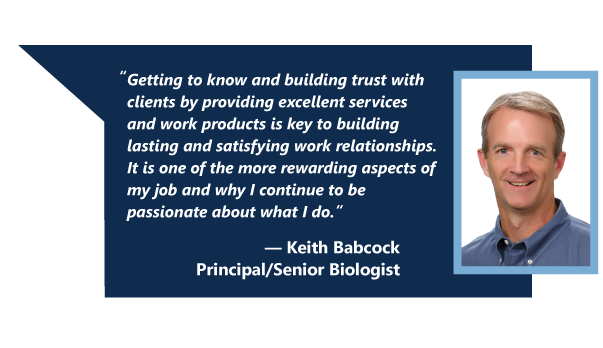
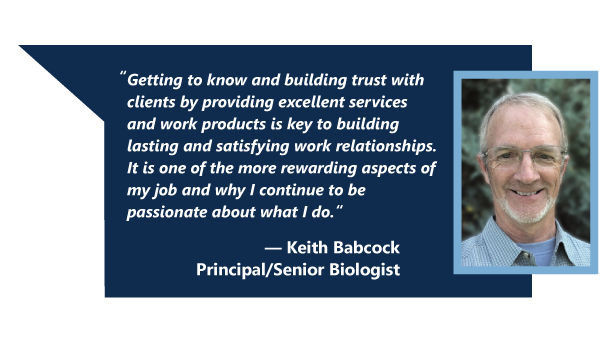
update keith headshot

Changed region(s): [[0.7463, 0.2011, 0.9851, 0.7759]]

diff --git a/index.hyperesources/index_hype_generated_script.js b/index.hyperesources/index_hype_generated_script.js
@@ -4,4 +4,4 @@
 !1)try{for(var c=document.getElementsByTagName("script"),a=0;a<c.length;a++){var d=c[a].src,b=null!=d?d.indexOf("/index_hype_generated_script.js"):-1;if(-1!=b){l=d.substr(0,b);break}}}catch(p){}c=navigator.userAgent.match(/MSIE (\d+\.\d+)/);c=parseFloat(c&&c[1])||null;d=!0==(null!=window.HYPE_734F||null!=window.HYPE_dtl_734F)||false==!0||null!=c&&10>c;a=!0==d?"HYPE-734.full.min.js":"HYPE-734.thin.min.js";c=!0==d?"F":"T";d=d?"":
 "";if(false==!1&&(a=k("HYPE_734"+c,"HYPE_dtl_734"+c,a,d),false==!0&&(a=a||k("HYPE_w_734","HYPE_wdtl_734","HYPE-734.waypoints.min.js","")),false==!0&&(a=a||k("Matter","HYPE_pdtl_734","HYPE-734.physics.min.js","")),a))return;d=window.HYPE.documents;if(null!=d[f]){b=1;a=f;do f=""+a+"-"+b++;while(null!=d[f]);for(var e=document.getElementsByTagName("div"),
 b=!1,a=0;a<e.length;a++)if(e[a].id==g&&null==e[a].getAttribute("HYP_dn")){var b=1,h=g;do g=""+h+"-"+b++;while(null!=document.getElementById(g));e[a].id=g;b=!0;break}if(!1==b)return}b=[];b=[];e={};h={};for(a=0;a<b.length;a++)try{h[b[a].identifier]=b[a].name,e[b[a].name]=eval("(function(){return "+b[a].source+"})();")}catch(n){window.console&&window.console.log(n),e[b[a].name]=function(){}}c=new window["HYPE_734"+c](f,g,{"9":{p:1,n:"map.png",g:"19",t:"@1x"},"10":{p:1,n:"blue_dot.png",g:"59",o:true,t:"@1x"},"11":{p:1,n:"blue_dot_2x.png",g:"59",o:true,t:"@2x"},"0":{p:1,n:"state_lines.png",g:"37",t:"@1x"},"12":{p:1,n:"Rose_quote.png",g:"86",t:"@1x"},"1":{p:1,n:"lines.png",g:"23",t:"@1x"},"2":{p:1,n:"peeps.png",g:"25",t:"@1x"},"13":{p:1,n:"legend.png",g:"281",o:true,t:"@1x"},"3":{p:1,n:"laurie_M_quote.png",g:"126",t:"@1x"},"14":{p:1,n:"legend_2x.png",g:"281",o:true,t:"@2x"},"4":{p:1,n:"lisa_quote.png",g:"196",t:"@1x"},"5":{p:1,n:"erlin_quote.png",g:"234",t:"@1x"},"15":{p:1,n:"adrienne_quote.png",g:"252",t:"@1x"},"6":{p:1,n:"allison_quote.png",g:"254",o:true,t:"@1x"},"16":{p:1,n:"Vipul_quote.png",g:"283",t:"@1x"},"7":{p:1,n:"allison_quote_2x.png",g:"254",o:true,t:"@2x"},"-1":{n:"PIE.htc"},"8":{p:1,n:"Dustin_quote.png",g:"214",t:"@1x"},"17":{p:1,n:"Keith_quote.png",g:"285",t:"@1x"},"-2":{n:"blank.gif"}},l,[],e,[{n:"opening",o:"1",X:[0]},{n:"adrienne",o:"236",X:[1]},{n:"Erlin",o:"218",X:[2]},{n:"Rose",o:"258",X:[3]},{n:"Allison",o:"88",X:[4]},{n:"Laurie",o:"110",X:[5]},{n:"vipul",o:"144",X:[6]},{n:"Keith",o:"162",X:[7]},{n:"Lisa",o:"180",X:[8]},{n:"dustin",o:"198",X:[9]}],
-[{o:"3",p:"600px",cA:false,Y:1240,Z:800,L:[],c:"#FFF",bY:1,d:1240,U:{},T:{kTimelineDefaultIdentifier:{q:false,z:2,i:"kTimelineDefaultIdentifier",n:"Main Timeline",a:[{f:"c",y:0,z:1,i:"e",e:0,s:1,o:"292"},{f:"c",y:0,z:1,i:"e",e:0,s:1,o:"298"},{f:"c",y:0,z:1,i:"e",e:0,s:1,o:"287"},{f:"c",y:0,z:1,i:"e",e:0,s:1,o:"290"},{f:"c",y:0,z:1,i:"e",e:0,s:1,o:"294"},{f:"c",y:0,z:1,i:"e",e:0,s:1,o:"296"},{f:"c",y:0,z:1,i:"e",e:0,s:1,o:"300"},{f:"c",y:0,z:1,i:"e",e:0,s:1,o:"288"},{f:"c",y:0,z:1,i:"e",e:0,s:1,o:"291"},{f:"c",y:1,z:1,i:"e",e:1,s:0,o:"292"},{f:"c",y:1,z:1,i:"e",e:1,s:0,o:"298"},{f:"c",y:1,z:1,i:"e",e:1,s:0,o:"287"},{f:"c",y:1,z:1,i:"e",e:1,s:0,o:"290"},{f:"c",y:1,z:1,i:"e",e:1,s:0,o:"294"},{f:"c",y:1,z:1,i:"e",e:1,s:0,o:"296"},{f:"c",y:1,z:1,i:"e",e:1,s:0,o:"300"},{f:"c",y:1,z:1,i:"e",e:1,s:0,o:"288"},{f:"c",y:1,z:1,i:"e",e:1,s:0,o:"291"},{f:"c",p:2,y:2,z:0,i:"ActionHandler",s:{a:[{b:"kTimelineDefaultIdentifier",p:3,z:false,symbolOid:"2"}]},o:"kTimelineDefaultIdentifier"},{y:2,i:"e",s:1,z:0,o:"292",f:"c"},{y:2,i:"e",s:1,z:0,o:"298",f:"c"},{y:2,i:"e",s:1,z:0,o:"287",f:"c"},{y:2,i:"e",s:1,z:0,o:"290",f:"c"},{y:2,i:"e",s:1,z:0,o:"294",f:"c"},{y:2,i:"e",s:1,z:0,o:"296",f:"c"},{y:2,i:"e",s:1,z:0,o:"300",f:"c"},{y:2,i:"e",s:1,z:0,o:"288",f:"c"},{y:2,i:"e",s:1,z:0,o:"291",f:"c"}],f:30,b:[]}},bZ:180,O:["289","295","299","297","288","300","292","290","294","291","298","287","293","296"],n:"Untitled Layout","_":0,v:{"289":{h:"25",p:"no-repeat",x:"visible",a:4,dB:"img",q:"100% 100%",j:"absolute",r:"inline",z:5,k:"div",b:0,d:800,c:1240},"290":{aD:{a:[{d:0.25,p:1,g:2,e:"88"}]},p:"no-repeat",x:"visible",h:"59",q:"100% 100%",a:228,j:"absolute",r:"inline",z:11,b:305,dB:"img",d:39,k:"div",c:39,e:1,aP:"pointer"},"295":{h:"37",p:"no-repeat",x:"visible",a:0,dB:"img",q:"100% 100%",j:"absolute",r:"inline",z:2,k:"div",b:0,d:800,c:1240},"298":{aD:{a:[{d:0.25,p:1,g:2,e:"110"}]},p:"no-repeat",x:"visible",h:"59",q:"100% 100%",a:85,j:"absolute",r:"inline",z:9,b:472,dB:"img",d:39,k:"div",c:39,e:1,aP:"pointer"},"287":{aD:{a:[{d:0.25,p:1,g:2,e:"144"}]},p:"no-repeat",x:"visible",h:"59",q:"100% 100%",a:149,j:"absolute",r:"inline",z:10,b:541,dB:"img",d:39,k:"div",c:39,e:1,aP:"pointer"},"293":{h:"281",p:"no-repeat",x:"visible",a:832,dB:"img",q:"100% 100%",j:"absolute",r:"inline",z:17,k:"div",b:539,d:22.32,c:201.6},"300":{aD:{a:[{d:0.5,p:1,g:2,e:"180"}]},p:"no-repeat",x:"visible",h:"59",q:"100% 100%",a:793,j:"absolute",r:"inline",z:14,b:279,dB:"img",d:39,k:"div",c:39,e:1,aP:"pointer"},"296":{aD:{a:[{d:0.5,p:1,g:2,e:"198"}]},p:"no-repeat",x:"visible",h:"59",q:"100% 100%",a:387,j:"absolute",r:"inline",z:13,b:606,dB:"img",d:39,k:"div",c:39,e:1,aP:"pointer"},"291":{aD:{a:[{d:0.5,p:1,g:2,e:"236"}]},p:"no-repeat",x:"visible",h:"59",q:"100% 100%",a:1135,j:"absolute",r:"inline",z:16,b:464,dB:"img",d:39,k:"div",c:39,e:1,aP:"pointer"},"299":{h:"19",p:"no-repeat",x:"visible",a:0,dB:"img",q:"100% 100%",j:"absolute",r:"inline",z:1,k:"div",b:0,d:800,c:1240},"294":{aD:{a:[{d:0.25,p:1,g:2,e:"162"}]},p:"no-repeat",x:"visible",h:"59",q:"100% 100%",a:487,j:"absolute",r:"inline",z:12,b:318,dB:"img",d:39,k:"div",c:39,e:1,aP:"pointer"},"288":{aD:{a:[{d:0.25,p:1,g:2,e:"218"}]},p:"no-repeat",x:"visible",h:"59",q:"100% 100%",a:1019,j:"absolute",r:"inline",z:15,b:230,dB:"img",d:39,k:"div",c:39,e:1,aP:"pointer"},"297":{h:"23",p:"no-repeat",x:"visible",a:20,dB:"img",q:"100% 100%",j:"absolute",r:"inline",z:6,b:20,k:"div",d:800,c:1240,e:1},"292":{aD:{a:[{d:0.25,p:1,g:2,e:"258"}]},p:"no-repeat",x:"visible",h:"59",q:"100% 100%",a:124,j:"absolute",r:"inline",b:310,z:7,dB:"img",d:39,k:"div",c:39,e:1,aP:"pointer",bD:"none"}}},{o:"251",p:"600px",cA:false,Y:1240,Z:800,L:[],c:"#FFF",bY:1,d:1240,U:{},T:{kTimelineDefaultIdentifier:{q:false,z:0,i:"kTimelineDefaultIdentifier",n:"Main Timeline",a:[],f:30,b:[]}},bZ:180,O:["303","305","301","302","304","306"],n:"Untitled Layout","_":1,v:{"301":{h:"19",p:"no-repeat",x:"visible",a:0,dB:"img",q:"100% 100%",j:"absolute",r:"inline",z:1,k:"div",b:0,d:800,c:1240},"305":{h:"37",p:"no-repeat",x:"visible",a:0,dB:"img",q:"100% 100%",j:"absolute",r:"inline",z:2,k:"div",b:0,d:800,c:1240},"302":{h:"23",p:"no-repeat",x:"visible",a:20,dB:"img",q:"100% 100%",j:"absolute",r:"inline",z:5,b:20,k:"div",d:800,c:1240,e:1},"306":{h:"59",p:"no-repeat",x:"visible",a:1135,q:"100% 100%",b:464,j:"absolute",r:"inline",z:15,dB:"img",k:"div",d:39,c:39,e:1,aP:"pointer",aC:{a:[{d:0.25,p:1,g:2,e:"1"}]}},"303":{h:"25",p:"no-repeat",x:"visible",a:4,dB:"img",q:"100% 100%",j:"absolute",r:"inline",z:4,k:"div",b:0,d:800,c:1240},"304":{h:"252",p:"no-repeat",x:"visible",a:581,dB:"img",q:"100% 100%",j:"absolute",r:"inline",z:6,k:"div",b:442,d:348,c:603}}},{o:"233",p:"600px",cA:false,Y:1240,Z:800,L:[],c:"#FFF",bY:1,d:1240,U:{},T:{kTimelineDefaultIdentifier:{q:false,z:0,i:"kTimelineDefaultIdentifier",n:"Main Timeline",a:[],f:30,b:[]}},bZ:180,O:["308","311","310","307","309","312"],n:"Untitled Layout","_":2,v:{"308":{h:"25",p:"no-repeat",x:"visible",a:4,dB:"img",q:"100% 100%",j:"absolute",r:"inline",z:4,k:"div",b:0,d:800,c:1240},"310":{h:"19",p:"no-repeat",x:"visible",a:0,dB:"img",q:"100% 100%",j:"absolute",r:"inline",z:1,k:"div",b:0,d:800,c:1240},"309":{h:"234",p:"no-repeat",x:"visible",a:471,dB:"img",q:"100% 100%",j:"absolute",r:"inline",z:6,k:"div",b:203,d:348,c:603},"311":{h:"37",p:"no-repeat",x:"visible",a:0,dB:"img",q:"100% 100%",j:"absolute",r:"inline",z:2,k:"div",b:0,d:800,c:1240},"307":{h:"23",p:"no-repeat",x:"visible",a:20,dB:"img",q:"100% 100%",j:"absolute",r:"inline",z:5,b:20,k:"div",d:800,c:1240,e:1},"312":{h:"59",p:"no-repeat",x:"visible",a:1019,q:"100% 100%",b:230,j:"absolute",r:"inline",z:14,dB:"img",k:"div",d:39,c:39,e:1,aP:"pointer",aC:{a:[{d:0.25,p:1,g:2,e:"1"}]}}}},{o:"266",p:"600px",cA:false,Y:1240,Z:800,L:[],c:"#FFF",bY:1,d:1240,U:{},T:{kTimelineDefaultIdentifier:{q:false,z:0,i:"kTimelineDefaultIdentifier",n:"Main Timeline",a:[],f:30,b:[]}},bZ:180,O:["318","317","316","315","314","313"],n:"Untitled Layout","_":3,v:{"313":{h:"59",p:"no-repeat",x:"visible",a:124,q:"100% 100%",b:310,j:"absolute",r:"inline",z:7,dB:"img",k:"div",d:39,c:39,e:1,aP:"pointer",aC:{a:[{d:0.25,p:1,g:2,e:"1"}]}},"317":{h:"37",p:"no-repeat",x:"visible",a:0,dB:"img",q:"100% 100%",j:"absolute",r:"inline",z:2,k:"div",b:0,d:800,c:1240},"314":{h:"86",p:"no-repeat",x:"visible",a:124,dB:"img",q:"100% 100%",j:"absolute",r:"inline",z:6,k:"div",b:285,d:348,c:603},"318":{h:"25",p:"no-repeat",x:"visible",a:4,dB:"img",q:"100% 100%",j:"absolute",r:"inline",z:4,k:"div",b:0,d:800,c:1240},"315":{h:"23",p:"no-repeat",x:"visible",a:20,dB:"img",q:"100% 100%",j:"absolute",r:"inline",z:5,b:20,k:"div",d:800,c:1240,e:1},"316":{h:"19",p:"no-repeat",x:"visible",a:0,dB:"img",q:"100% 100%",j:"absolute",r:"inline",z:1,k:"div",b:0,d:800,c:1240}}},{o:"103",p:"600px",cA:false,Y:1240,Z:800,L:[],c:"#FFF",bY:1,d:1240,U:{},T:{kTimelineDefaultIdentifier:{q:false,z:0,i:"kTimelineDefaultIdentifier",n:"Main Timeline",a:[],f:30,b:[]}},bZ:180,O:["321","322","323","319","324","320"],n:"Untitled Layout","_":4,v:{"324":{h:"59",p:"no-repeat",x:"visible",a:228,q:"100% 100%",b:305,j:"absolute",r:"inline",z:11,dB:"img",k:"div",d:39,c:39,e:1,aP:"pointer",aC:{a:[{d:0.25,p:1,g:2,e:"1"}]}},"322":{h:"37",p:"no-repeat",x:"visible",a:0,dB:"img",q:"100% 100%",j:"absolute",r:"inline",z:2,k:"div",b:0,d:800,c:1240},"323":{h:"19",p:"no-repeat",x:"visible",a:0,dB:"img",q:"100% 100%",j:"absolute",r:"inline",z:1,k:"div",b:0,d:800,c:1240},"320":{h:"254",p:"no-repeat",x:"visible",a:257,dB:"img",q:"100% 100%",j:"absolute",r:"inline",z:10,k:"div",b:325,d:252.48,c:544.56},"319":{h:"23",p:"no-repeat",x:"visible",a:20,dB:"img",q:"100% 100%",j:"absolute",r:"inline",z:5,b:20,k:"div",d:800,c:1240,e:1},"321":{h:"25",p:"no-repeat",x:"visible",a:4,dB:"img",q:"100% 100%",j:"absolute",r:"inline",z:4,k:"div",b:0,d:800,c:1240}}},{o:"125",p:"600px",cA:false,Y:1240,Z:800,L:[],c:"#FFF",bY:1,d:1240,U:{},T:{kTimelineDefaultIdentifier:{q:false,z:0,i:"kTimelineDefaultIdentifier",n:"Main Timeline",a:[],f:30,b:[]}},bZ:180,O:["325","328","326","329","327","330"],n:"Untitled Layout","_":5,v:{"325":{h:"25",p:"no-repeat",x:"visible",a:4,dB:"img",q:"100% 100%",j:"absolute",r:"inline",z:4,k:"div",b:0,d:800,c:1240},"329":{h:"23",p:"no-repeat",x:"visible",a:20,dB:"img",q:"100% 100%",j:"absolute",r:"inline",z:5,b:20,k:"div",d:800,c:1240,e:1},"326":{h:"19",p:"no-repeat",x:"visible",a:0,dB:"img",q:"100% 100%",j:"absolute",r:"inline",z:1,k:"div",b:0,d:800,c:1240},"330":{h:"59",p:"no-repeat",x:"visible",a:85,q:"100% 100%",b:472,j:"absolute",r:"inline",z:8,dB:"img",k:"div",d:39,c:39,e:1,aP:"pointer",aC:{a:[{d:0.25,p:1,g:2,e:"1"}]}},"327":{h:"126",p:"no-repeat",x:"visible",a:76,dB:"img",q:"100% 100%",j:"absolute",r:"inline",z:7,k:"div",b:444,d:348,c:603},"328":{h:"37",p:"no-repeat",x:"visible",a:0,dB:"img",q:"100% 100%",j:"absolute",r:"inline",z:2,k:"div",b:0,d:800,c:1240}}},{o:"159",p:"600px",cA:false,Y:1240,Z:800,L:[],c:"#FFF",bY:1,d:1240,U:{},T:{kTimelineDefaultIdentifier:{q:false,z:0,i:"kTimelineDefaultIdentifier",n:"Main Timeline",a:[],f:30,b:[]}},bZ:180,O:["333","335","334","331","332","336"],n:"Untitled Layout","_":6,v:{"334":{h:"19",p:"no-repeat",x:"visible",a:0,dB:"img",q:"100% 100%",j:"absolute",r:"inline",z:1,k:"div",b:0,d:800,c:1240},"331":{h:"23",p:"no-repeat",x:"visible",a:20,dB:"img",q:"100% 100%",j:"absolute",r:"inline",z:5,b:20,k:"div",d:800,c:1240,e:1},"335":{h:"37",p:"no-repeat",x:"visible",a:0,dB:"img",q:"100% 100%",j:"absolute",r:"inline",z:2,k:"div",b:0,d:800,c:1240},"332":{h:"283",p:"no-repeat",x:"visible",a:143,dB:"img",q:"100% 100%",j:"absolute",r:"inline",z:6,k:"div",b:267,d:348,c:603},"336":{h:"59",p:"no-repeat",x:"visible",a:149,q:"100% 100%",b:541,j:"absolute",r:"inline",z:10,dB:"img",k:"div",d:39,c:39,e:1,aP:"pointer",aC:{a:[{d:0.25,p:1,g:2,e:"1"}]}},"333":{h:"25",p:"no-repeat",x:"visible",a:4,dB:"img",q:"100% 100%",j:"absolute",r:"inline",z:4,k:"div",b:0,d:800,c:1240}}},{o:"177",p:"600px",cA:false,Y:1240,Z:800,L:[],c:"#FFF",bY:1,d:1240,U:{},T:{kTimelineDefaultIdentifier:{q:false,z:0,i:"kTimelineDefaultIdentifier",n:"Main Timeline",a:[],f:30,b:[]}},bZ:180,O:["337","340","341","338","342","339"],n:"Untitled Layout","_":7,v:{"337":{h:"25",p:"no-repeat",x:"visible",a:4,dB:"img",q:"100% 100%",j:"absolute",r:"inline",z:4,k:"div",b:0,d:800,c:1240},"342":{h:"285",p:"no-repeat",x:"visible",a:487,dB:"img",q:"100% 100%",j:"absolute",r:"inline",z:6,k:"div",b:294,d:348,c:603},"338":{h:"23",p:"no-repeat",x:"visible",a:20,dB:"img",q:"100% 100%",j:"absolute",r:"inline",z:5,b:20,k:"div",d:800,c:1240,e:1},"340":{h:"37",p:"no-repeat",x:"visible",a:0,dB:"img",q:"100% 100%",j:"absolute",r:"inline",z:2,k:"div",b:0,d:800,c:1240},"339":{h:"59",p:"no-repeat",x:"visible",a:487,q:"100% 100%",b:318,j:"absolute",r:"inline",z:13,dB:"img",k:"div",d:39,c:39,e:1,aP:"pointer",aC:{a:[{d:0.25,p:1,g:2,e:"1"}]}},"341":{h:"19",p:"no-repeat",x:"visible",a:0,dB:"img",q:"100% 100%",j:"absolute",r:"inline",z:1,k:"div",b:0,d:800,c:1240}}},{o:"195",p:"600px",cA:false,Y:1240,Z:800,L:[],c:"#FFF",bY:1,d:1240,U:{},T:{kTimelineDefaultIdentifier:{q:false,z:2,i:"kTimelineDefaultIdentifier",n:"Main Timeline",a:[{f:"c",y:0,z:1,i:"e",e:0,s:1,o:"346"},{f:"c",y:1,z:1,i:"e",e:1,s:0,o:"346"},{f:"c",p:2,y:2,z:0,i:"ActionHandler",s:{a:[{b:"kTimelineDefaultIdentifier",p:3,z:false,symbolOid:"2"}]},o:"kTimelineDefaultIdentifier"},{y:2,i:"e",s:1,z:0,o:"346",f:"c"}],f:30,b:[]}},bZ:180,O:["343","348","344","347","345","346"],n:"Untitled Layout","_":8,v:{"346":{h:"59",p:"no-repeat",x:"visible",a:793,q:"100% 100%",b:279,j:"absolute",r:"inline",z:13,dB:"img",k:"div",d:39,c:39,e:1,aP:"pointer",aC:{a:[{d:0.5,p:1,g:2,e:"1"}]}},"343":{h:"25",p:"no-repeat",x:"visible",a:4,dB:"img",q:"100% 100%",j:"absolute",r:"inline",z:4,k:"div",b:0,d:800,c:1240},"347":{h:"23",p:"no-repeat",x:"visible",a:20,dB:"img",q:"100% 100%",j:"absolute",r:"inline",z:5,b:20,k:"div",d:800,c:1240,e:1},"344":{h:"19",p:"no-repeat",x:"visible",a:0,dB:"img",q:"100% 100%",j:"absolute",r:"inline",z:1,k:"div",b:0,d:800,c:1240},"348":{h:"37",p:"no-repeat",x:"visible",a:0,dB:"img",q:"100% 100%",j:"absolute",r:"inline",z:2,k:"div",b:0,d:800,c:1240},"345":{h:"196",p:"no-repeat",x:"visible",a:245,dB:"img",q:"100% 100%",j:"absolute",r:"inline",z:6,k:"div",b:255,d:348,c:603}}},{o:"213",p:"600px",cA:false,Y:1240,Z:800,L:[],c:"#FFF",bY:1,d:1240,U:{},T:{kTimelineDefaultIdentifier:{q:false,z:0,i:"kTimelineDefaultIdentifier",n:"Main Timeline",a:[],f:30,b:[]}},bZ:180,O:["353","352","350","349","351","354"],n:"Untitled Layout","_":9,v:{"349":{h:"23",p:"no-repeat",x:"visible",a:20,dB:"img",q:"100% 100%",j:"absolute",r:"inline",z:5,b:20,k:"div",d:800,c:1240,e:1},"351":{h:"214",p:"no-repeat",x:"visible",a:394,dB:"img",q:"100% 100%",j:"absolute",r:"inline",z:6,k:"div",b:322,d:348,c:603},"354":{h:"59",p:"no-repeat",x:"visible",a:387,q:"100% 100%",b:606,j:"absolute",r:"inline",z:12,dB:"img",k:"div",d:39,c:39,e:1,aP:"pointer",aC:{a:[{d:0.25,p:1,g:2,e:"1"}]}},"352":{h:"37",p:"no-repeat",x:"visible",a:0,dB:"img",q:"100% 100%",j:"absolute",r:"inline",z:2,k:"div",b:0,d:800,c:1240},"353":{h:"25",p:"no-repeat",x:"visible",a:4,dB:"img",q:"100% 100%",j:"absolute",r:"inline",z:4,k:"div",b:0,d:800,c:1240},"350":{h:"19",p:"no-repeat",x:"visible",a:0,dB:"img",q:"100% 100%",j:"absolute",r:"inline",z:1,k:"div",b:0,d:800,c:1240}}}],{},h,{},null,false,true,-1,true,true,false,true,true);d[f]=c.API;document.getElementById(g).setAttribute("HYP_dn",f);c.z_o(this.body)})();})();
+[{o:"3",p:"600px",cA:false,Y:1240,Z:800,L:[],c:"#FFF",bY:1,d:1240,U:{},T:{kTimelineDefaultIdentifier:{q:false,z:2,i:"kTimelineDefaultIdentifier",n:"Main Timeline",a:[{f:"c",y:0,z:1,i:"e",e:0,s:1,o:"292"},{f:"c",y:0,z:1,i:"e",e:0,s:1,o:"298"},{f:"c",y:0,z:1,i:"e",e:0,s:1,o:"287"},{f:"c",y:0,z:1,i:"e",e:0,s:1,o:"290"},{f:"c",y:0,z:1,i:"e",e:0,s:1,o:"294"},{f:"c",y:0,z:1,i:"e",e:0,s:1,o:"296"},{f:"c",y:0,z:1,i:"e",e:0,s:1,o:"300"},{f:"c",y:0,z:1,i:"e",e:0,s:1,o:"288"},{f:"c",y:0,z:1,i:"e",e:0,s:1,o:"291"},{f:"c",y:1,z:1,i:"e",e:1,s:0,o:"292"},{f:"c",y:1,z:1,i:"e",e:1,s:0,o:"298"},{f:"c",y:1,z:1,i:"e",e:1,s:0,o:"287"},{f:"c",y:1,z:1,i:"e",e:1,s:0,o:"290"},{f:"c",y:1,z:1,i:"e",e:1,s:0,o:"294"},{f:"c",y:1,z:1,i:"e",e:1,s:0,o:"296"},{f:"c",y:1,z:1,i:"e",e:1,s:0,o:"300"},{f:"c",y:1,z:1,i:"e",e:1,s:0,o:"288"},{f:"c",y:1,z:1,i:"e",e:1,s:0,o:"291"},{f:"c",p:2,y:2,z:0,i:"ActionHandler",s:{a:[{b:"kTimelineDefaultIdentifier",p:3,z:false,symbolOid:"2"}]},o:"kTimelineDefaultIdentifier"},{y:2,i:"e",s:1,z:0,o:"292",f:"c"},{y:2,i:"e",s:1,z:0,o:"298",f:"c"},{y:2,i:"e",s:1,z:0,o:"287",f:"c"},{y:2,i:"e",s:1,z:0,o:"290",f:"c"},{y:2,i:"e",s:1,z:0,o:"294",f:"c"},{y:2,i:"e",s:1,z:0,o:"296",f:"c"},{y:2,i:"e",s:1,z:0,o:"300",f:"c"},{y:2,i:"e",s:1,z:0,o:"288",f:"c"},{y:2,i:"e",s:1,z:0,o:"291",f:"c"}],f:30,b:[]}},bZ:180,O:["289","295","299","297","288","300","292","290","294","291","298","287","293","296"],n:"Untitled Layout","_":0,v:{"289":{h:"25",p:"no-repeat",x:"visible",a:4,dB:"img",q:"100% 100%",j:"absolute",r:"inline",z:5,k:"div",b:0,d:800,c:1240},"290":{aD:{a:[{d:0.25,p:1,g:2,e:"88"}]},p:"no-repeat",x:"visible",h:"59",q:"100% 100%",a:228,j:"absolute",r:"inline",z:11,b:305,dB:"img",d:39,k:"div",c:39,e:1,aP:"pointer"},"295":{h:"37",p:"no-repeat",x:"visible",a:0,dB:"img",q:"100% 100%",j:"absolute",r:"inline",z:2,k:"div",b:0,d:800,c:1240},"298":{aD:{a:[{d:0.25,p:1,g:2,e:"110"}]},p:"no-repeat",x:"visible",h:"59",q:"100% 100%",a:85,j:"absolute",r:"inline",z:9,b:472,dB:"img",d:39,k:"div",c:39,e:1,aP:"pointer"},"287":{aD:{a:[{d:0.25,p:1,g:2,e:"144"}]},p:"no-repeat",x:"visible",h:"59",q:"100% 100%",a:149,j:"absolute",r:"inline",z:10,b:541,dB:"img",d:39,k:"div",c:39,e:1,aP:"pointer"},"293":{h:"281",p:"no-repeat",x:"visible",a:832,dB:"img",q:"100% 100%",j:"absolute",r:"inline",z:17,k:"div",b:539,d:22.32,c:201.6},"300":{aD:{a:[{d:0.5,p:1,g:2,e:"180"}]},p:"no-repeat",x:"visible",h:"59",q:"100% 100%",a:793,j:"absolute",r:"inline",z:14,b:279,dB:"img",d:39,k:"div",c:39,e:1,aP:"pointer"},"296":{aD:{a:[{d:0.5,p:1,g:2,e:"198"}]},p:"no-repeat",x:"visible",h:"59",q:"100% 100%",a:387,j:"absolute",r:"inline",z:13,b:606,dB:"img",d:39,k:"div",c:39,e:1,aP:"pointer"},"291":{aD:{a:[{d:0.5,p:1,g:2,e:"236"}]},p:"no-repeat",x:"visible",h:"59",q:"100% 100%",a:1135,j:"absolute",r:"inline",z:16,b:464,dB:"img",d:39,k:"div",c:39,e:1,aP:"pointer"},"299":{h:"19",p:"no-repeat",x:"visible",a:0,dB:"img",q:"100% 100%",j:"absolute",r:"inline",z:1,k:"div",b:0,d:800,c:1240},"294":{aD:{a:[{d:0.25,p:1,g:2,e:"162"}]},p:"no-repeat",x:"visible",h:"59",q:"100% 100%",a:487,j:"absolute",r:"inline",z:12,b:318,dB:"img",d:39,k:"div",c:39,e:1,aP:"pointer"},"288":{aD:{a:[{d:0.25,p:1,g:2,e:"218"}]},p:"no-repeat",x:"visible",h:"59",q:"100% 100%",a:1019,j:"absolute",r:"inline",z:15,b:230,dB:"img",d:39,k:"div",c:39,e:1,aP:"pointer"},"297":{h:"23",p:"no-repeat",x:"visible",a:20,dB:"img",q:"100% 100%",j:"absolute",r:"inline",z:6,b:20,k:"div",d:800,c:1240,e:1},"292":{aD:{a:[{d:0.25,p:1,g:2,e:"258"}]},p:"no-repeat",x:"visible",h:"59",q:"100% 100%",a:124,j:"absolute",r:"inline",b:310,z:7,dB:"img",d:39,k:"div",c:39,e:1,aP:"pointer",bD:"none"}}},{o:"251",p:"600px",cA:false,Y:1240,Z:800,L:[],c:"#FFF",bY:1,d:1240,U:{},T:{kTimelineDefaultIdentifier:{q:false,z:0,i:"kTimelineDefaultIdentifier",n:"Main Timeline",a:[],f:30,b:[]}},bZ:180,O:["303","305","306","302","304","301"],n:"Untitled Layout","_":1,v:{"301":{h:"59",p:"no-repeat",x:"visible",a:1135,q:"100% 100%",b:464,j:"absolute",r:"inline",z:15,dB:"img",k:"div",d:39,c:39,e:1,aP:"pointer",aC:{a:[{d:0.25,p:1,g:2,e:"1"}]}},"305":{h:"37",p:"no-repeat",x:"visible",a:0,dB:"img",q:"100% 100%",j:"absolute",r:"inline",z:2,k:"div",b:0,d:800,c:1240},"302":{h:"23",p:"no-repeat",x:"visible",a:20,dB:"img",q:"100% 100%",j:"absolute",r:"inline",z:5,b:20,k:"div",d:800,c:1240,e:1},"306":{h:"19",p:"no-repeat",x:"visible",a:0,dB:"img",q:"100% 100%",j:"absolute",r:"inline",z:1,k:"div",b:0,d:800,c:1240},"303":{h:"25",p:"no-repeat",x:"visible",a:4,dB:"img",q:"100% 100%",j:"absolute",r:"inline",z:4,k:"div",b:0,d:800,c:1240},"304":{h:"252",p:"no-repeat",x:"visible",a:581,dB:"img",q:"100% 100%",j:"absolute",r:"inline",z:6,k:"div",b:442,d:348,c:603}}},{o:"233",p:"600px",cA:false,Y:1240,Z:800,L:[],c:"#FFF",bY:1,d:1240,U:{},T:{kTimelineDefaultIdentifier:{q:false,z:0,i:"kTimelineDefaultIdentifier",n:"Main Timeline",a:[],f:30,b:[]}},bZ:180,O:["308","311","310","307","309","312"],n:"Untitled Layout","_":2,v:{"308":{h:"25",p:"no-repeat",x:"visible",a:4,dB:"img",q:"100% 100%",j:"absolute",r:"inline",z:4,k:"div",b:0,d:800,c:1240},"310":{h:"19",p:"no-repeat",x:"visible",a:0,dB:"img",q:"100% 100%",j:"absolute",r:"inline",z:1,k:"div",b:0,d:800,c:1240},"309":{h:"234",p:"no-repeat",x:"visible",a:471,dB:"img",q:"100% 100%",j:"absolute",r:"inline",z:6,k:"div",b:203,d:348,c:603},"311":{h:"37",p:"no-repeat",x:"visible",a:0,dB:"img",q:"100% 100%",j:"absolute",r:"inline",z:2,k:"div",b:0,d:800,c:1240},"307":{h:"23",p:"no-repeat",x:"visible",a:20,dB:"img",q:"100% 100%",j:"absolute",r:"inline",z:5,b:20,k:"div",d:800,c:1240,e:1},"312":{h:"59",p:"no-repeat",x:"visible",a:1019,q:"100% 100%",b:230,j:"absolute",r:"inline",z:14,dB:"img",k:"div",d:39,c:39,e:1,aP:"pointer",aC:{a:[{d:0.25,p:1,g:2,e:"1"}]}}}},{o:"266",p:"600px",cA:false,Y:1240,Z:800,L:[],c:"#FFF",bY:1,d:1240,U:{},T:{kTimelineDefaultIdentifier:{q:false,z:0,i:"kTimelineDefaultIdentifier",n:"Main Timeline",a:[],f:30,b:[]}},bZ:180,O:["318","317","316","315","314","313"],n:"Untitled Layout","_":3,v:{"313":{h:"59",p:"no-repeat",x:"visible",a:124,q:"100% 100%",b:310,j:"absolute",r:"inline",z:7,dB:"img",k:"div",d:39,c:39,e:1,aP:"pointer",aC:{a:[{d:0.25,p:1,g:2,e:"1"}]}},"317":{h:"37",p:"no-repeat",x:"visible",a:0,dB:"img",q:"100% 100%",j:"absolute",r:"inline",z:2,k:"div",b:0,d:800,c:1240},"314":{h:"86",p:"no-repeat",x:"visible",a:124,dB:"img",q:"100% 100%",j:"absolute",r:"inline",z:6,k:"div",b:285,d:348,c:603},"318":{h:"25",p:"no-repeat",x:"visible",a:4,dB:"img",q:"100% 100%",j:"absolute",r:"inline",z:4,k:"div",b:0,d:800,c:1240},"315":{h:"23",p:"no-repeat",x:"visible",a:20,dB:"img",q:"100% 100%",j:"absolute",r:"inline",z:5,b:20,k:"div",d:800,c:1240,e:1},"316":{h:"19",p:"no-repeat",x:"visible",a:0,dB:"img",q:"100% 100%",j:"absolute",r:"inline",z:1,k:"div",b:0,d:800,c:1240}}},{o:"103",p:"600px",cA:false,Y:1240,Z:800,L:[],c:"#FFF",bY:1,d:1240,U:{},T:{kTimelineDefaultIdentifier:{q:false,z:0,i:"kTimelineDefaultIdentifier",n:"Main Timeline",a:[],f:30,b:[]}},bZ:180,O:["321","322","323","319","324","320"],n:"Untitled Layout","_":4,v:{"324":{h:"59",p:"no-repeat",x:"visible",a:228,q:"100% 100%",b:305,j:"absolute",r:"inline",z:11,dB:"img",k:"div",d:39,c:39,e:1,aP:"pointer",aC:{a:[{d:0.25,p:1,g:2,e:"1"}]}},"322":{h:"37",p:"no-repeat",x:"visible",a:0,dB:"img",q:"100% 100%",j:"absolute",r:"inline",z:2,k:"div",b:0,d:800,c:1240},"323":{h:"19",p:"no-repeat",x:"visible",a:0,dB:"img",q:"100% 100%",j:"absolute",r:"inline",z:1,k:"div",b:0,d:800,c:1240},"320":{h:"254",p:"no-repeat",x:"visible",a:257,dB:"img",q:"100% 100%",j:"absolute",r:"inline",z:10,k:"div",b:325,d:252.48,c:544.56},"319":{h:"23",p:"no-repeat",x:"visible",a:20,dB:"img",q:"100% 100%",j:"absolute",r:"inline",z:5,b:20,k:"div",d:800,c:1240,e:1},"321":{h:"25",p:"no-repeat",x:"visible",a:4,dB:"img",q:"100% 100%",j:"absolute",r:"inline",z:4,k:"div",b:0,d:800,c:1240}}},{o:"125",p:"600px",cA:false,Y:1240,Z:800,L:[],c:"#FFF",bY:1,d:1240,U:{},T:{kTimelineDefaultIdentifier:{q:false,z:0,i:"kTimelineDefaultIdentifier",n:"Main Timeline",a:[],f:30,b:[]}},bZ:180,O:["325","328","326","329","327","330"],n:"Untitled Layout","_":5,v:{"325":{h:"25",p:"no-repeat",x:"visible",a:4,dB:"img",q:"100% 100%",j:"absolute",r:"inline",z:4,k:"div",b:0,d:800,c:1240},"329":{h:"23",p:"no-repeat",x:"visible",a:20,dB:"img",q:"100% 100%",j:"absolute",r:"inline",z:5,b:20,k:"div",d:800,c:1240,e:1},"326":{h:"19",p:"no-repeat",x:"visible",a:0,dB:"img",q:"100% 100%",j:"absolute",r:"inline",z:1,k:"div",b:0,d:800,c:1240},"330":{h:"59",p:"no-repeat",x:"visible",a:85,q:"100% 100%",b:472,j:"absolute",r:"inline",z:8,dB:"img",k:"div",d:39,c:39,e:1,aP:"pointer",aC:{a:[{d:0.25,p:1,g:2,e:"1"}]}},"327":{h:"126",p:"no-repeat",x:"visible",a:76,dB:"img",q:"100% 100%",j:"absolute",r:"inline",z:7,k:"div",b:444,d:348,c:603},"328":{h:"37",p:"no-repeat",x:"visible",a:0,dB:"img",q:"100% 100%",j:"absolute",r:"inline",z:2,k:"div",b:0,d:800,c:1240}}},{o:"159",p:"600px",cA:false,Y:1240,Z:800,L:[],c:"#FFF",bY:1,d:1240,U:{},T:{kTimelineDefaultIdentifier:{q:false,z:0,i:"kTimelineDefaultIdentifier",n:"Main Timeline",a:[],f:30,b:[]}},bZ:180,O:["333","335","334","331","332","336"],n:"Untitled Layout","_":6,v:{"334":{h:"19",p:"no-repeat",x:"visible",a:0,dB:"img",q:"100% 100%",j:"absolute",r:"inline",z:1,k:"div",b:0,d:800,c:1240},"331":{h:"23",p:"no-repeat",x:"visible",a:20,dB:"img",q:"100% 100%",j:"absolute",r:"inline",z:5,b:20,k:"div",d:800,c:1240,e:1},"335":{h:"37",p:"no-repeat",x:"visible",a:0,dB:"img",q:"100% 100%",j:"absolute",r:"inline",z:2,k:"div",b:0,d:800,c:1240},"332":{h:"283",p:"no-repeat",x:"visible",a:143,dB:"img",q:"100% 100%",j:"absolute",r:"inline",z:6,k:"div",b:267,d:348,c:603},"336":{h:"59",p:"no-repeat",x:"visible",a:149,q:"100% 100%",b:541,j:"absolute",r:"inline",z:10,dB:"img",k:"div",d:39,c:39,e:1,aP:"pointer",aC:{a:[{d:0.25,p:1,g:2,e:"1"}]}},"333":{h:"25",p:"no-repeat",x:"visible",a:4,dB:"img",q:"100% 100%",j:"absolute",r:"inline",z:4,k:"div",b:0,d:800,c:1240}}},{o:"177",p:"600px",cA:false,Y:1240,Z:800,L:[],c:"#FFF",bY:1,d:1240,U:{},T:{kTimelineDefaultIdentifier:{q:false,z:0,i:"kTimelineDefaultIdentifier",n:"Main Timeline",a:[],f:30,b:[]}},bZ:180,O:["341","337","338","339","342","340"],n:"Untitled Layout","_":7,v:{"337":{h:"37",p:"no-repeat",x:"visible",a:0,dB:"img",q:"100% 100%",j:"absolute",r:"inline",z:2,k:"div",b:0,d:800,c:1240},"342":{h:"285",p:"no-repeat",x:"visible",a:487,dB:"img",q:"100% 100%",j:"absolute",r:"inline",z:6,k:"div",b:294,d:348,c:603},"338":{h:"19",p:"no-repeat",x:"visible",a:0,dB:"img",q:"100% 100%",j:"absolute",r:"inline",z:1,k:"div",b:0,d:800,c:1240},"340":{h:"59",p:"no-repeat",x:"visible",a:487,q:"100% 100%",b:318,j:"absolute",r:"inline",z:13,dB:"img",k:"div",d:39,c:39,e:1,aP:"pointer",aC:{a:[{d:0.25,p:1,g:2,e:"1"}]}},"339":{h:"23",p:"no-repeat",x:"visible",a:20,dB:"img",q:"100% 100%",j:"absolute",r:"inline",z:5,b:20,k:"div",d:800,c:1240,e:1},"341":{h:"25",p:"no-repeat",x:"visible",a:4,dB:"img",q:"100% 100%",j:"absolute",r:"inline",z:4,k:"div",b:0,d:800,c:1240}}},{o:"195",p:"600px",cA:false,Y:1240,Z:800,L:[],c:"#FFF",bY:1,d:1240,U:{},T:{kTimelineDefaultIdentifier:{q:false,z:2,i:"kTimelineDefaultIdentifier",n:"Main Timeline",a:[{f:"c",y:0,z:1,i:"e",e:0,s:1,o:"346"},{f:"c",y:1,z:1,i:"e",e:1,s:0,o:"346"},{f:"c",p:2,y:2,z:0,i:"ActionHandler",s:{a:[{b:"kTimelineDefaultIdentifier",p:3,z:false,symbolOid:"2"}]},o:"kTimelineDefaultIdentifier"},{y:2,i:"e",s:1,z:0,o:"346",f:"c"}],f:30,b:[]}},bZ:180,O:["343","348","344","347","345","346"],n:"Untitled Layout","_":8,v:{"346":{h:"59",p:"no-repeat",x:"visible",a:793,q:"100% 100%",b:279,j:"absolute",r:"inline",z:13,dB:"img",k:"div",d:39,c:39,e:1,aP:"pointer",aC:{a:[{d:0.5,p:1,g:2,e:"1"}]}},"343":{h:"25",p:"no-repeat",x:"visible",a:4,dB:"img",q:"100% 100%",j:"absolute",r:"inline",z:4,k:"div",b:0,d:800,c:1240},"347":{h:"23",p:"no-repeat",x:"visible",a:20,dB:"img",q:"100% 100%",j:"absolute",r:"inline",z:5,b:20,k:"div",d:800,c:1240,e:1},"344":{h:"19",p:"no-repeat",x:"visible",a:0,dB:"img",q:"100% 100%",j:"absolute",r:"inline",z:1,k:"div",b:0,d:800,c:1240},"348":{h:"37",p:"no-repeat",x:"visible",a:0,dB:"img",q:"100% 100%",j:"absolute",r:"inline",z:2,k:"div",b:0,d:800,c:1240},"345":{h:"196",p:"no-repeat",x:"visible",a:245,dB:"img",q:"100% 100%",j:"absolute",r:"inline",z:6,k:"div",b:255,d:348,c:603}}},{o:"213",p:"600px",cA:false,Y:1240,Z:800,L:[],c:"#FFF",bY:1,d:1240,U:{},T:{kTimelineDefaultIdentifier:{q:false,z:0,i:"kTimelineDefaultIdentifier",n:"Main Timeline",a:[],f:30,b:[]}},bZ:180,O:["353","352","350","349","351","354"],n:"Untitled Layout","_":9,v:{"349":{h:"23",p:"no-repeat",x:"visible",a:20,dB:"img",q:"100% 100%",j:"absolute",r:"inline",z:5,b:20,k:"div",d:800,c:1240,e:1},"351":{h:"214",p:"no-repeat",x:"visible",a:394,dB:"img",q:"100% 100%",j:"absolute",r:"inline",z:6,k:"div",b:322,d:348,c:603},"354":{h:"59",p:"no-repeat",x:"visible",a:387,q:"100% 100%",b:606,j:"absolute",r:"inline",z:12,dB:"img",k:"div",d:39,c:39,e:1,aP:"pointer",aC:{a:[{d:0.25,p:1,g:2,e:"1"}]}},"352":{h:"37",p:"no-repeat",x:"visible",a:0,dB:"img",q:"100% 100%",j:"absolute",r:"inline",z:2,k:"div",b:0,d:800,c:1240},"353":{h:"25",p:"no-repeat",x:"visible",a:4,dB:"img",q:"100% 100%",j:"absolute",r:"inline",z:4,k:"div",b:0,d:800,c:1240},"350":{h:"19",p:"no-repeat",x:"visible",a:0,dB:"img",q:"100% 100%",j:"absolute",r:"inline",z:1,k:"div",b:0,d:800,c:1240}}}],{},h,{},null,false,true,-1,true,true,false,true,true);d[f]=c.API;document.getElementById(g).setAttribute("HYP_dn",f);c.z_o(this.body)})();})();

diff --git a/index.html b/index.html
@@ -24,7 +24,7 @@
 	<!-- copy these lines to your document: -->
 
 	<div id="index_hype_container" class="HYPE_document" style="margin:auto;position:relative;width:1240px;height:800px;overflow:hidden;">
-		<script type="text/javascript" charset="utf-8" src="index.hyperesources/index_hype_generated_script.js?82663"></script>
+		<script type="text/javascript" charset="utf-8" src="index.hyperesources/index_hype_generated_script.js?5100"></script>
 	</div>
 
 	<!-- end copy -->
